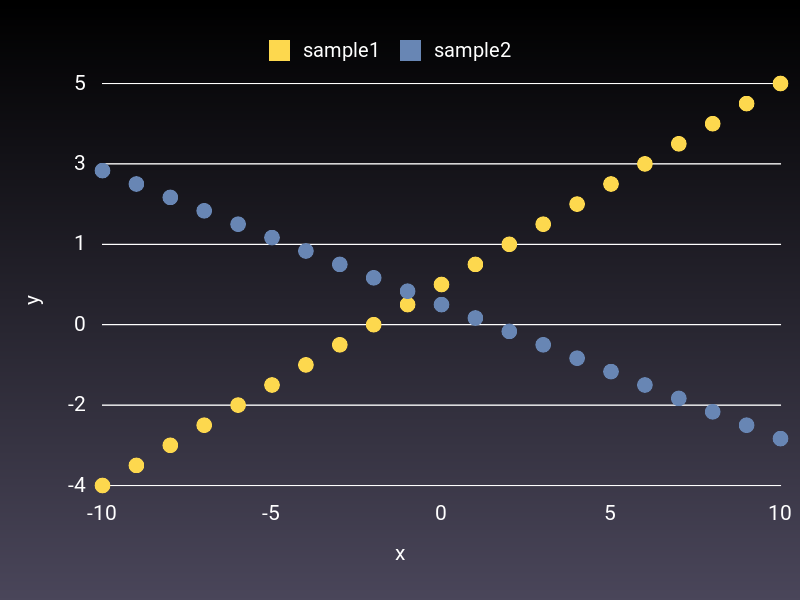
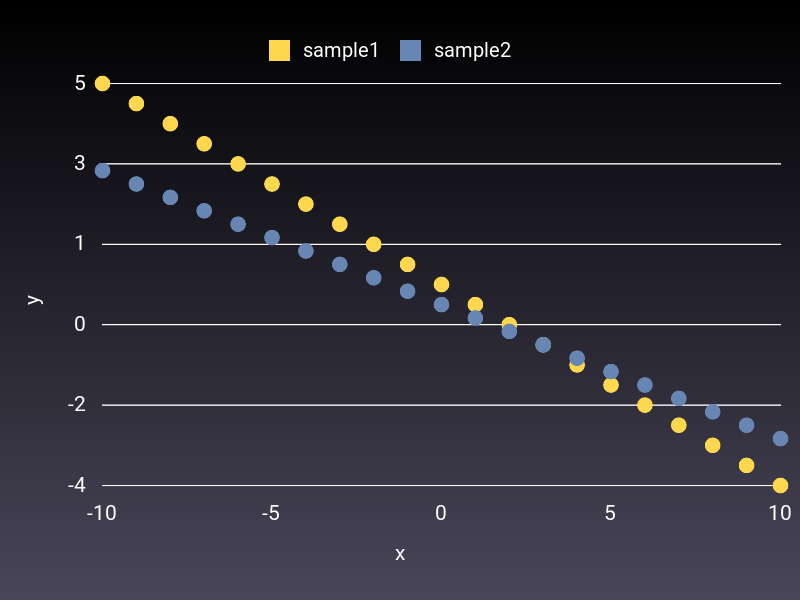
Built site for gh-pages

diff --git a/posts/2023-07-30Math/index.html b/posts/2023-07-30Math/index.html
@@ -208,7 +208,7 @@ pre > code.sourceCode > span > a:first-child::before { text-decoration: underlin
 <span id="cb1-9"><a href="#cb1-9" aria-hidden="true" tabindex="-1"></a></span>
 <span id="cb1-10"><a href="#cb1-10" aria-hidden="true" tabindex="-1"></a>  remainders<span class="at">.reverse</span>()   <span class="co"># Reverse the elements in the list</span></span>
 <span id="cb1-11"><a href="#cb1-11" aria-hidden="true" tabindex="-1"></a><span class="cf">end</span></span></code><button title="Copy to Clipboard" class="code-copy-button"><i class="bi"></i></button></pre></div>
-<div class="cell-output cell-output-display" data-execution_count="175">
+<div class="cell-output cell-output-display" data-execution_count="219">
 <pre><code>:decimal_to_binary</code></pre>
 </div>
 </div>
@@ -217,7 +217,7 @@ pre > code.sourceCode > span > a:first-child::before { text-decoration: underlin
 <div class="cell-output cell-output-stdout">
 <pre><code>[1, 0, 0, 0, 0, 0, 1]</code></pre>
 </div>
-<div class="cell-output cell-output-display" data-execution_count="176">
+<div class="cell-output cell-output-display" data-execution_count="220">
 <pre><code>[1, 0, 0, 0, 0, 0, 1]</code></pre>
 </div>
 </div>
@@ -229,7 +229,7 @@ pre > code.sourceCode > span > a:first-child::before { text-decoration: underlin
 <span id="cb6-5"><a href="#cb6-5" aria-hidden="true" tabindex="-1"></a>    <span class="at">.each_with_index</span></span>
 <span id="cb6-6"><a href="#cb6-6" aria-hidden="true" tabindex="-1"></a>    <span class="at">.sum</span> <span class="kw">{</span> <span class="kw">|</span>digit, index<span class="kw">|</span> digit <span class="kw">*</span> <span class="dv">2</span><span class="kw">**</span>index <span class="kw">}</span></span>
 <span id="cb6-7"><a href="#cb6-7" aria-hidden="true" tabindex="-1"></a><span class="cf">end</span></span></code><button title="Copy to Clipboard" class="code-copy-button"><i class="bi"></i></button></pre></div>
-<div class="cell-output cell-output-display" data-execution_count="177">
+<div class="cell-output cell-output-display" data-execution_count="221">
 <pre><code>:binary_to_decial</code></pre>
 </div>
 </div>
@@ -238,7 +238,7 @@ pre > code.sourceCode > span > a:first-child::before { text-decoration: underlin
 <div class="cell-output cell-output-stdout">
 <pre><code>9</code></pre>
 </div>
-<div class="cell-output cell-output-display" data-execution_count="178">
+<div class="cell-output cell-output-display" data-execution_count="222">
 <pre><code>9</code></pre>
 </div>
 </div>
@@ -249,14 +249,14 @@ pre > code.sourceCode > span > a:first-child::before { text-decoration: underlin
 <div class="sourceCode cell-code" id="cb11"><pre class="sourceCode ruby code-with-copy"><code class="sourceCode ruby"><span id="cb11-1"><a href="#cb11-1" aria-hidden="true" tabindex="-1"></a><span class="fu">require</span> <span class="st">"charty"</span></span>
 <span id="cb11-2"><a href="#cb11-2" aria-hidden="true" tabindex="-1"></a><span class="fu">require</span> <span class="st">"datasets"</span></span>
 <span id="cb11-3"><a href="#cb11-3" aria-hidden="true" tabindex="-1"></a><span class="fu">require</span> <span class="st">"numo/narray"</span></span></code><button title="Copy to Clipboard" class="code-copy-button"><i class="bi"></i></button></pre></div>
-<div class="cell-output cell-output-display" data-execution_count="179">
+<div class="cell-output cell-output-display" data-execution_count="223">
 <pre><code>false</code></pre>
 </div>
 </div>
 <div class="cell" data-execution_count="6">
 <div class="sourceCode cell-code" id="cb13"><pre class="sourceCode ruby code-with-copy"><code class="sourceCode ruby"><span id="cb13-1"><a href="#cb13-1" aria-hidden="true" tabindex="-1"></a>charty <span class="kw">=</span> <span class="dt">Charty</span><span class="kw">::</span><span class="dt">Plotter</span><span class="at">.new</span>(<span class="wa">:gruff</span>)</span></code><button title="Copy to Clipboard" class="code-copy-button"><i class="bi"></i></button></pre></div>
-<div class="cell-output cell-output-display" data-execution_count="180">
-<pre><code>#&lt;Charty::Plotter:0x0000000104dfc7a8 @backend=#&lt;Charty::Backends::Gruff:0x0000000104dfc6b8 @plot=Gruff&gt;&gt;</code></pre>
+<div class="cell-output cell-output-display" data-execution_count="224">
+<pre><code>#&lt;Charty::Plotter:0x0000000105e798d8 @backend=#&lt;Charty::Backends::Gruff:0x0000000105e79860 @plot=Gruff&gt;&gt;</code></pre>
 </div>
 </div>
 <p><span class="math display">\[
@@ -265,15 +265,15 @@ y = -2/3 x + 6
 y = 1/2 x + 2
 \]</span></p>
 <div class="cell" data-execution_count="7">
-<div class="sourceCode cell-code" id="cb15"><pre class="sourceCode ruby code-with-copy"><code class="sourceCode ruby"><span id="cb15-1"><a href="#cb15-1" aria-hidden="true" tabindex="-1"></a>curve <span class="kw">=</span> charty<span class="at">.scatter</span> <span class="cf">do</span></span>
+<div class="sourceCode cell-code" id="cb15"><pre class="sourceCode ruby code-with-copy"><code class="sourceCode ruby"><span id="cb15-1"><a href="#cb15-1" aria-hidden="true" tabindex="-1"></a>scatter <span class="kw">=</span> charty<span class="at">.scatter</span> <span class="cf">do</span></span>
 <span id="cb15-2"><a href="#cb15-2" aria-hidden="true" tabindex="-1"></a>  series <span class="kw">-</span><span class="dv">10</span><span class="kw">..</span><span class="dv">10</span>, (<span class="kw">-</span><span class="dv">10</span><span class="kw">..</span><span class="dv">10</span>)<span class="at">.map</span><span class="kw">{|</span>x<span class="kw">|</span> x<span class="kw">/</span><span class="dv">2</span><span class="at">.to_f</span> <span class="kw">*</span> <span class="kw">-</span><span class="dv">3</span> <span class="kw">+</span> <span class="dv">6</span> <span class="kw">}</span>, <span class="wa">label: </span><span class="vs">'sample1'</span></span>
 <span id="cb15-3"><a href="#cb15-3" aria-hidden="true" tabindex="-1"></a>  series <span class="kw">-</span><span class="dv">10</span><span class="kw">..</span><span class="dv">10</span>, (<span class="kw">-</span><span class="dv">10</span><span class="kw">..</span><span class="dv">10</span>)<span class="at">.map</span><span class="kw">{|</span>x<span class="kw">|</span> (x<span class="kw">/</span><span class="dv">2</span><span class="at">.to_f</span>) <span class="kw">+</span> <span class="dv">2</span> <span class="kw">}</span>, <span class="wa">label: </span><span class="vs">'sample2'</span></span>
 <span id="cb15-4"><a href="#cb15-4" aria-hidden="true" tabindex="-1"></a>  range <span class="wa">x: </span><span class="kw">-</span><span class="dv">10</span><span class="kw">..</span><span class="dv">10</span>, <span class="wa">y: </span><span class="kw">-</span><span class="dv">10</span><span class="kw">..</span><span class="dv">10</span></span>
 <span id="cb15-5"><a href="#cb15-5" aria-hidden="true" tabindex="-1"></a>  xlabel <span class="ch">'x'</span></span>
 <span id="cb15-6"><a href="#cb15-6" aria-hidden="true" tabindex="-1"></a>  ylabel <span class="ch">'y'</span></span>
 <span id="cb15-7"><a href="#cb15-7" aria-hidden="true" tabindex="-1"></a><span class="cf">end</span></span>
-<span id="cb15-8"><a href="#cb15-8" aria-hidden="true" tabindex="-1"></a>curve<span class="at">.render</span>(<span class="st">"sample_images/2.png"</span>)</span></code><button title="Copy to Clipboard" class="code-copy-button"><i class="bi"></i></button></pre></div>
-<div class="cell-output cell-output-display" data-execution_count="181">
+<span id="cb15-8"><a href="#cb15-8" aria-hidden="true" tabindex="-1"></a>scatter<span class="at">.render</span>(<span class="st">"sample_images/1.png"</span>)</span></code><button title="Copy to Clipboard" class="code-copy-button"><i class="bi"></i></button></pre></div>
+<div class="cell-output cell-output-display" data-execution_count="225">
 <p><img src="index_files/figure-html/cell-8-output-1.png" class="img-fluid"></p>
 </div>
 </div>
@@ -288,26 +288,26 @@ y = 1/2 x + 2
 <span id="cb16-3"><a href="#cb16-3" aria-hidden="true" tabindex="-1"></a>a <span class="kw">=</span> <span class="dt">Matrix</span><span class="kw">[[</span><span class="dv">2</span><span class="kw">/</span><span class="dv">3</span><span class="at">.to_f</span>, <span class="dv">1</span><span class="kw">]</span>,<span class="kw">[-</span><span class="dv">1</span><span class="kw">/</span><span class="dv">2</span><span class="at">.to_f</span>, <span class="dv">1</span><span class="kw">]]</span></span>
 <span id="cb16-4"><a href="#cb16-4" aria-hidden="true" tabindex="-1"></a>b <span class="kw">=</span> <span class="dt">Vector</span><span class="kw">[</span><span class="dv">6</span>,<span class="dv">2</span><span class="kw">]</span></span>
 <span id="cb16-5"><a href="#cb16-5" aria-hidden="true" tabindex="-1"></a>a<span class="at">.lup.solve</span>(b)</span></code><button title="Copy to Clipboard" class="code-copy-button"><i class="bi"></i></button></pre></div>
-<div class="cell-output cell-output-display" data-execution_count="182">
+<div class="cell-output cell-output-display" data-execution_count="226">
 <pre><code>Vector[3.4285714285714284, 3.7142857142857144]</code></pre>
 </div>
 </div>
 <hr>
 <p><span class="math display">\[
-2y = 1/2 - 1/2x
+y = - 1/2x + 1/2
 \]</span> <span class="math display">\[
 y = -1/3 x
 \]</span></p>
 <div class="cell" data-execution_count="9">
-<div class="sourceCode cell-code" id="cb18"><pre class="sourceCode ruby code-with-copy"><code class="sourceCode ruby"><span id="cb18-1"><a href="#cb18-1" aria-hidden="true" tabindex="-1"></a>curve <span class="kw">=</span> charty<span class="at">.scatter</span> <span class="cf">do</span></span>
-<span id="cb18-2"><a href="#cb18-2" aria-hidden="true" tabindex="-1"></a>  series <span class="kw">-</span><span class="dv">10</span><span class="kw">..</span><span class="dv">10</span>, (<span class="kw">-</span><span class="dv">10</span><span class="kw">..</span><span class="dv">10</span>)<span class="at">.map</span><span class="kw">{|</span>x<span class="kw">|</span> x<span class="kw">/</span><span class="dv">2</span><span class="at">.to_f</span> <span class="kw">+</span> <span class="dv">1</span><span class="kw">/</span><span class="dv">2</span><span class="at">.to_f</span> <span class="kw">}</span>, <span class="wa">label: </span><span class="vs">'sample1'</span></span>
+<div class="sourceCode cell-code" id="cb18"><pre class="sourceCode ruby code-with-copy"><code class="sourceCode ruby"><span id="cb18-1"><a href="#cb18-1" aria-hidden="true" tabindex="-1"></a>scatter <span class="kw">=</span> charty<span class="at">.scatter</span> <span class="cf">do</span></span>
+<span id="cb18-2"><a href="#cb18-2" aria-hidden="true" tabindex="-1"></a>  series <span class="kw">-</span><span class="dv">10</span><span class="kw">..</span><span class="dv">10</span>, (<span class="kw">-</span><span class="dv">10</span><span class="kw">..</span><span class="dv">10</span>)<span class="at">.map</span><span class="kw">{|</span>x<span class="kw">|</span> x<span class="kw">/-</span><span class="dv">2</span><span class="at">.to_f</span> <span class="kw">+</span> <span class="dv">1</span><span class="kw">/</span><span class="dv">2</span><span class="at">.to_f</span> <span class="kw">}</span>, <span class="wa">label: </span><span class="vs">'sample1'</span></span>
 <span id="cb18-3"><a href="#cb18-3" aria-hidden="true" tabindex="-1"></a>  series <span class="kw">-</span><span class="dv">10</span><span class="kw">..</span><span class="dv">10</span>, (<span class="kw">-</span><span class="dv">10</span><span class="kw">..</span><span class="dv">10</span>)<span class="at">.map</span><span class="kw">{|</span>x<span class="kw">|</span> (x<span class="kw">/-</span><span class="dv">3</span><span class="at">.to_f</span>)<span class="kw">}</span>, <span class="wa">label: </span><span class="vs">'sample2'</span></span>
 <span id="cb18-4"><a href="#cb18-4" aria-hidden="true" tabindex="-1"></a>  range <span class="wa">x: </span><span class="kw">-</span><span class="dv">10</span><span class="kw">..</span><span class="dv">10</span>, <span class="wa">y: </span><span class="kw">-</span><span class="dv">10</span><span class="kw">..</span><span class="dv">10</span></span>
 <span id="cb18-5"><a href="#cb18-5" aria-hidden="true" tabindex="-1"></a>  xlabel <span class="ch">'x'</span></span>
 <span id="cb18-6"><a href="#cb18-6" aria-hidden="true" tabindex="-1"></a>  ylabel <span class="ch">'y'</span></span>
 <span id="cb18-7"><a href="#cb18-7" aria-hidden="true" tabindex="-1"></a><span class="cf">end</span></span>
-<span id="cb18-8"><a href="#cb18-8" aria-hidden="true" tabindex="-1"></a>curve<span class="at">.render</span>(<span class="st">"sample_images/3.png"</span>)</span></code><button title="Copy to Clipboard" class="code-copy-button"><i class="bi"></i></button></pre></div>
-<div class="cell-output cell-output-display" data-execution_count="183">
+<span id="cb18-8"><a href="#cb18-8" aria-hidden="true" tabindex="-1"></a>scatter<span class="at">.render</span>(<span class="st">"sample_images/2.png"</span>)</span></code><button title="Copy to Clipboard" class="code-copy-button"><i class="bi"></i></button></pre></div>
+<div class="cell-output cell-output-display" data-execution_count="227">
 <p><img src="index_files/figure-html/cell-10-output-1.png" class="img-fluid"></p>
 </div>
 </div>
@@ -322,7 +322,7 @@ x + 3y = 0
 <span id="cb19-3"><a href="#cb19-3" aria-hidden="true" tabindex="-1"></a>a <span class="kw">=</span> <span class="dt">Matrix</span><span class="kw">[[</span><span class="fl">1.0</span>, <span class="fl">2.0</span><span class="kw">]</span>,<span class="kw">[</span><span class="fl">1.0</span>, <span class="fl">3.0</span><span class="kw">]]</span></span>
 <span id="cb19-4"><a href="#cb19-4" aria-hidden="true" tabindex="-1"></a>b <span class="kw">=</span> <span class="dt">Vector</span><span class="kw">[</span><span class="fl">1.0</span>, <span class="fl">0.0</span><span class="kw">]</span></span>
 <span id="cb19-5"><a href="#cb19-5" aria-hidden="true" tabindex="-1"></a>a<span class="at">.lup.solve</span>(b)</span></code><button title="Copy to Clipboard" class="code-copy-button"><i class="bi"></i></button></pre></div>
-<div class="cell-output cell-output-display" data-execution_count="184">
+<div class="cell-output cell-output-display" data-execution_count="228">
 <pre><code>Vector[3.0, -1.0]</code></pre>
 </div>
 </div>
@@ -339,7 +339,7 @@ x = 3, y = -1
 <span id="cb21-3"><a href="#cb21-3" aria-hidden="true" tabindex="-1"></a>a <span class="kw">=</span> <span class="dt">Matrix</span><span class="kw">[[</span><span class="dv">2</span>, <span class="dv">4</span>, <span class="kw">-</span><span class="dv">2</span><span class="kw">]</span>,<span class="kw">[</span><span class="dv">2</span>, <span class="dv">1</span>, <span class="dv">1</span><span class="kw">]</span>,<span class="kw">[</span><span class="dv">1</span>, <span class="dv">1</span>, <span class="dv">1</span><span class="kw">]]</span></span>
 <span id="cb21-4"><a href="#cb21-4" aria-hidden="true" tabindex="-1"></a>b <span class="kw">=</span> <span class="dt">Vector</span><span class="kw">[</span><span class="dv">4</span>,<span class="dv">7</span>,<span class="dv">6</span> <span class="kw">]</span></span>
 <span id="cb21-5"><a href="#cb21-5" aria-hidden="true" tabindex="-1"></a>a<span class="at">.lup.solve</span>(b)</span></code><button title="Copy to Clipboard" class="code-copy-button"><i class="bi"></i></button></pre></div>
-<div class="cell-output cell-output-display" data-execution_count="185">
+<div class="cell-output cell-output-display" data-execution_count="229">
 <pre><code>Vector[(1/1), (2/1), (3/1)]</code></pre>
 </div>
 </div>

diff --git a/index.html b/index.html
@@ -177,7 +177,7 @@ ul.task-list li input[type="checkbox"] {
     </div>
 </div>
 <div class="list quarto-listing-default">
-<div class="quarto-post image-right" data-index="0" data-categories="ruby,math,code" data-listing-date-sort="1690642800000" data-listing-file-modified-sort="1690725913557" data-listing-date-modified-sort="NaN" data-listing-reading-time-sort="2">
+<div class="quarto-post image-right" data-index="0" data-categories="ruby,math,code" data-listing-date-sort="1690642800000" data-listing-file-modified-sort="1690726189143" data-listing-date-modified-sort="NaN" data-listing-reading-time-sort="2">
 <div class="body">
 <a href="./posts/2023-07-30Math/index.html">
 <h3 class="no-anchor listing-title">
